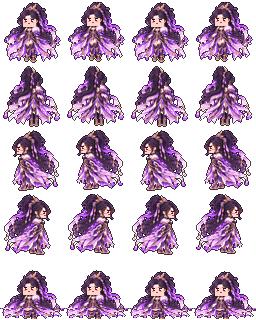
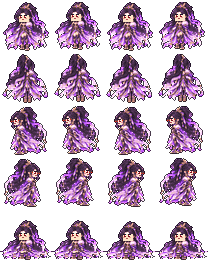
Smaller pixel heroes: figure 48 px (was 60), regenerated at that size so they stay sharp, about NPC height
Claude-Session: https://claude.ai/code/session_01L2ryCMVY95yrrrnw2USKSA

diff --git a/js/89-pixel-heroes.js b/js/89-pixel-heroes.js
@@ -1,12 +1,12 @@
 /* Hand-drawn pixel heroes (pixel mode only). Atlases from tools/pixel/build_atlas.py:
-   4 columns × 5 rows of 64×64 cells (figure 60 px, converted from the painted class art by
+   4 columns × 5 rows of 52×52 cells (figure 48 px, converted from the painted class art by
    tools/pixel/build_heroes_v3.py) — front, back, walking left, walking
    right, seated meditation. Drawn at a whole number of screen pixels per art pixel and snapped
    to the pixel grid so every hero stays sharp. Classes without a pixel atlas keep their painted sprites. */
 (function(){
  'use strict';
  if(window.artStyle?.get()!=='pixel'||!window.characterMasks)return;
- const READY={Kiem:true,Liem:true,Thuong:true,Quat:true},CW=64,CH=64,FIG=60;
+ const READY={Kiem:true,Liem:true,Thuong:true,Quat:true},CW=52,CH=52,FIG=48;
  const ROW={truoc:0,sau:1,trai:2,phai:3};
  const sheets=new Map(),frames=new Map();
  function sheet(ap){
@@ -26,7 +26,7 @@
   const fit=window.characterFit?.(ap,direction,fx,fy,height),figure=fit?.H||height*.8;
   const t=motion.time??(worldMap.environmentClock||performance.now()/1000);
   const row=motion.meditating?4:(ROW[direction]??0),col=motion.meditating?Math.floor(t*1.6)%4:motion.moving?Math.floor(t*8)%4:0;
-  const m=ctx.getTransform(),k=Math.hypot(m.a,m.b)||1,px=Math.max(1,Math.round(figure*1.12/FIG*k)),scale=px/k;
+  const m=ctx.getTransform(),k=Math.hypot(m.a,m.b)||1,px=Math.max(1,Math.round(figure/FIG*k)),scale=px/k;
   const image=cell(s,row,col),w=CW*scale,h=CH*scale;
   // Snap the top-left corner to the device pixel grid (axis-aligned transforms).
   const left=(Math.round((fx-w/2)*m.a+m.e)-m.e)/m.a,top=(Math.round((fy-h)*m.d+m.f)-m.f)/m.d;
@@ -39,7 +39,7 @@
   const key=s.key+'/'+c.width;let painted=false;try{painted=c.getContext('2d').getImageData(0,0,1,1).data[3]===0;}catch{}if(key===avatarKey&&!painted)return;avatarKey=key;
   const x=c.getContext('2d'),n=c.width;x.save();x.setTransform(1,0,0,1,0,0);x.clearRect(0,0,n,n);
   const bg=x.createLinearGradient(0,0,0,n);bg.addColorStop(0,'#2b3d4a');bg.addColorStop(1,'#13202a');x.fillStyle=bg;x.fillRect(0,0,n,n);
-  x.imageSmoothingEnabled=false;const crop=36,scale=n/crop;x.drawImage(cell(s,0,0),14,2,crop,crop,(n-crop*scale)/2,n-crop*scale,crop*scale,crop*scale);x.restore();
+  x.imageSmoothingEnabled=false;const crop=30,scale=n/crop;x.drawImage(cell(s,0,0),11,1,crop,crop,(n-crop*scale)/2,n-crop*scale,crop*scale,crop*scale);x.restore();
  },700);
  window.pixelHeroes={ready:READY,sheet};
 })();

diff --git a/tools/pixel/build_heroes_v3.py b/tools/pixel/build_heroes_v3.py
@@ -1,6 +1,6 @@
 """Pixel heroes v3: converted from the painted class art (tools/pixel/hero_convert.py) with
 hand-placed pixel faces, so every school keeps its own costume, headwear and colours.
-Atlas per class+gender: 4 columns x 5 rows of 64x64 cells (figure 60 px):
+Atlas per class+gender: 4 columns x 5 rows of 52x52 cells (figure 48 px):
 rows = front, back, walking left, walking right, meditation.
 Run: python3 tools/pixel/build_heroes_v3.py -> Character/Pixel/<Class>-<Nam|Nu>.png"""
 import os,sys
@@ -9,7 +9,8 @@ from PIL import Image
 HERE=os.path.dirname(os.path.abspath(__file__));sys.path.insert(0,HERE)
 from hero_convert import views
 ROOT=os.path.normpath(os.path.join(HERE,'..','..'))
-CW=CH=64
+CW=CH=52
+FIG=48            # figure height in art pixels (faces below are authored for 60 and scaled)
 # Face boxes (x0,y0,x1,y1, eye row) in the 60-px figures; side boxes are for 'trai' (faces left).
 FACES={
  ('Kiem','Nam'):{'truoc':(22,19,40,30,23),'trai':(20,19,31,30,23)},
@@ -38,7 +39,7 @@ def face(img,gender,view,box):
             a[ey+dy,x,:3]=iris;a[ey+dy,x+1,:3]=iris
         a[ey+tall-1,x,:3]=low;a[ey+tall-1,x+1,:3]=low;a[ey,x,:3]=hi if False else a[ey,x,:3]
         a[ey-1,x,:3]=dark;a[ey-1,x+1,:3]=dark;a[ey,x+1,:3]=hi
-    tall=3 if gender=='Nam' else 2
+    tall=2
     if view=='truoc':
         c=(x0+x1)/2;g=max(2,round(w*.2));lx=int(c-g-1);rx=int(c+g-1)
         eye(lx,tall);eye(rx,tall)
@@ -77,8 +78,10 @@ def meditate(img):
         c.alpha_composite(bottom,((W-bottom.width)//2,cut));c.alpha_composite(top,((W-w)//2,b))
         frames.append(place(c))
     return frames
+def scaled(box,k):
+    x0,y0,x1,y1,ey=box;return (round(x0*k),round(y0*k),round(x1*k),round(y1*k),round(ey*k))
 def build(cls,g):
-    v=views(cls,g);box=FACES[(cls,g)]
+    v=views(cls,g,FIG);k=FIG/60;box={d:scaled(b,k) for d,b in FACES[(cls,g)].items()}
     front=face(v['truoc'],g,'truoc',box['truoc']);left=face(v['trai'],g,'trai',box['trai']);right=left.transpose(Image.FLIP_LEFT_RIGHT)
     rows=[walk(front),walk(v['sau']),walk(left),walk(right),meditate(front)]
     a=Image.new('RGBA',(CW*4,CH*5))
